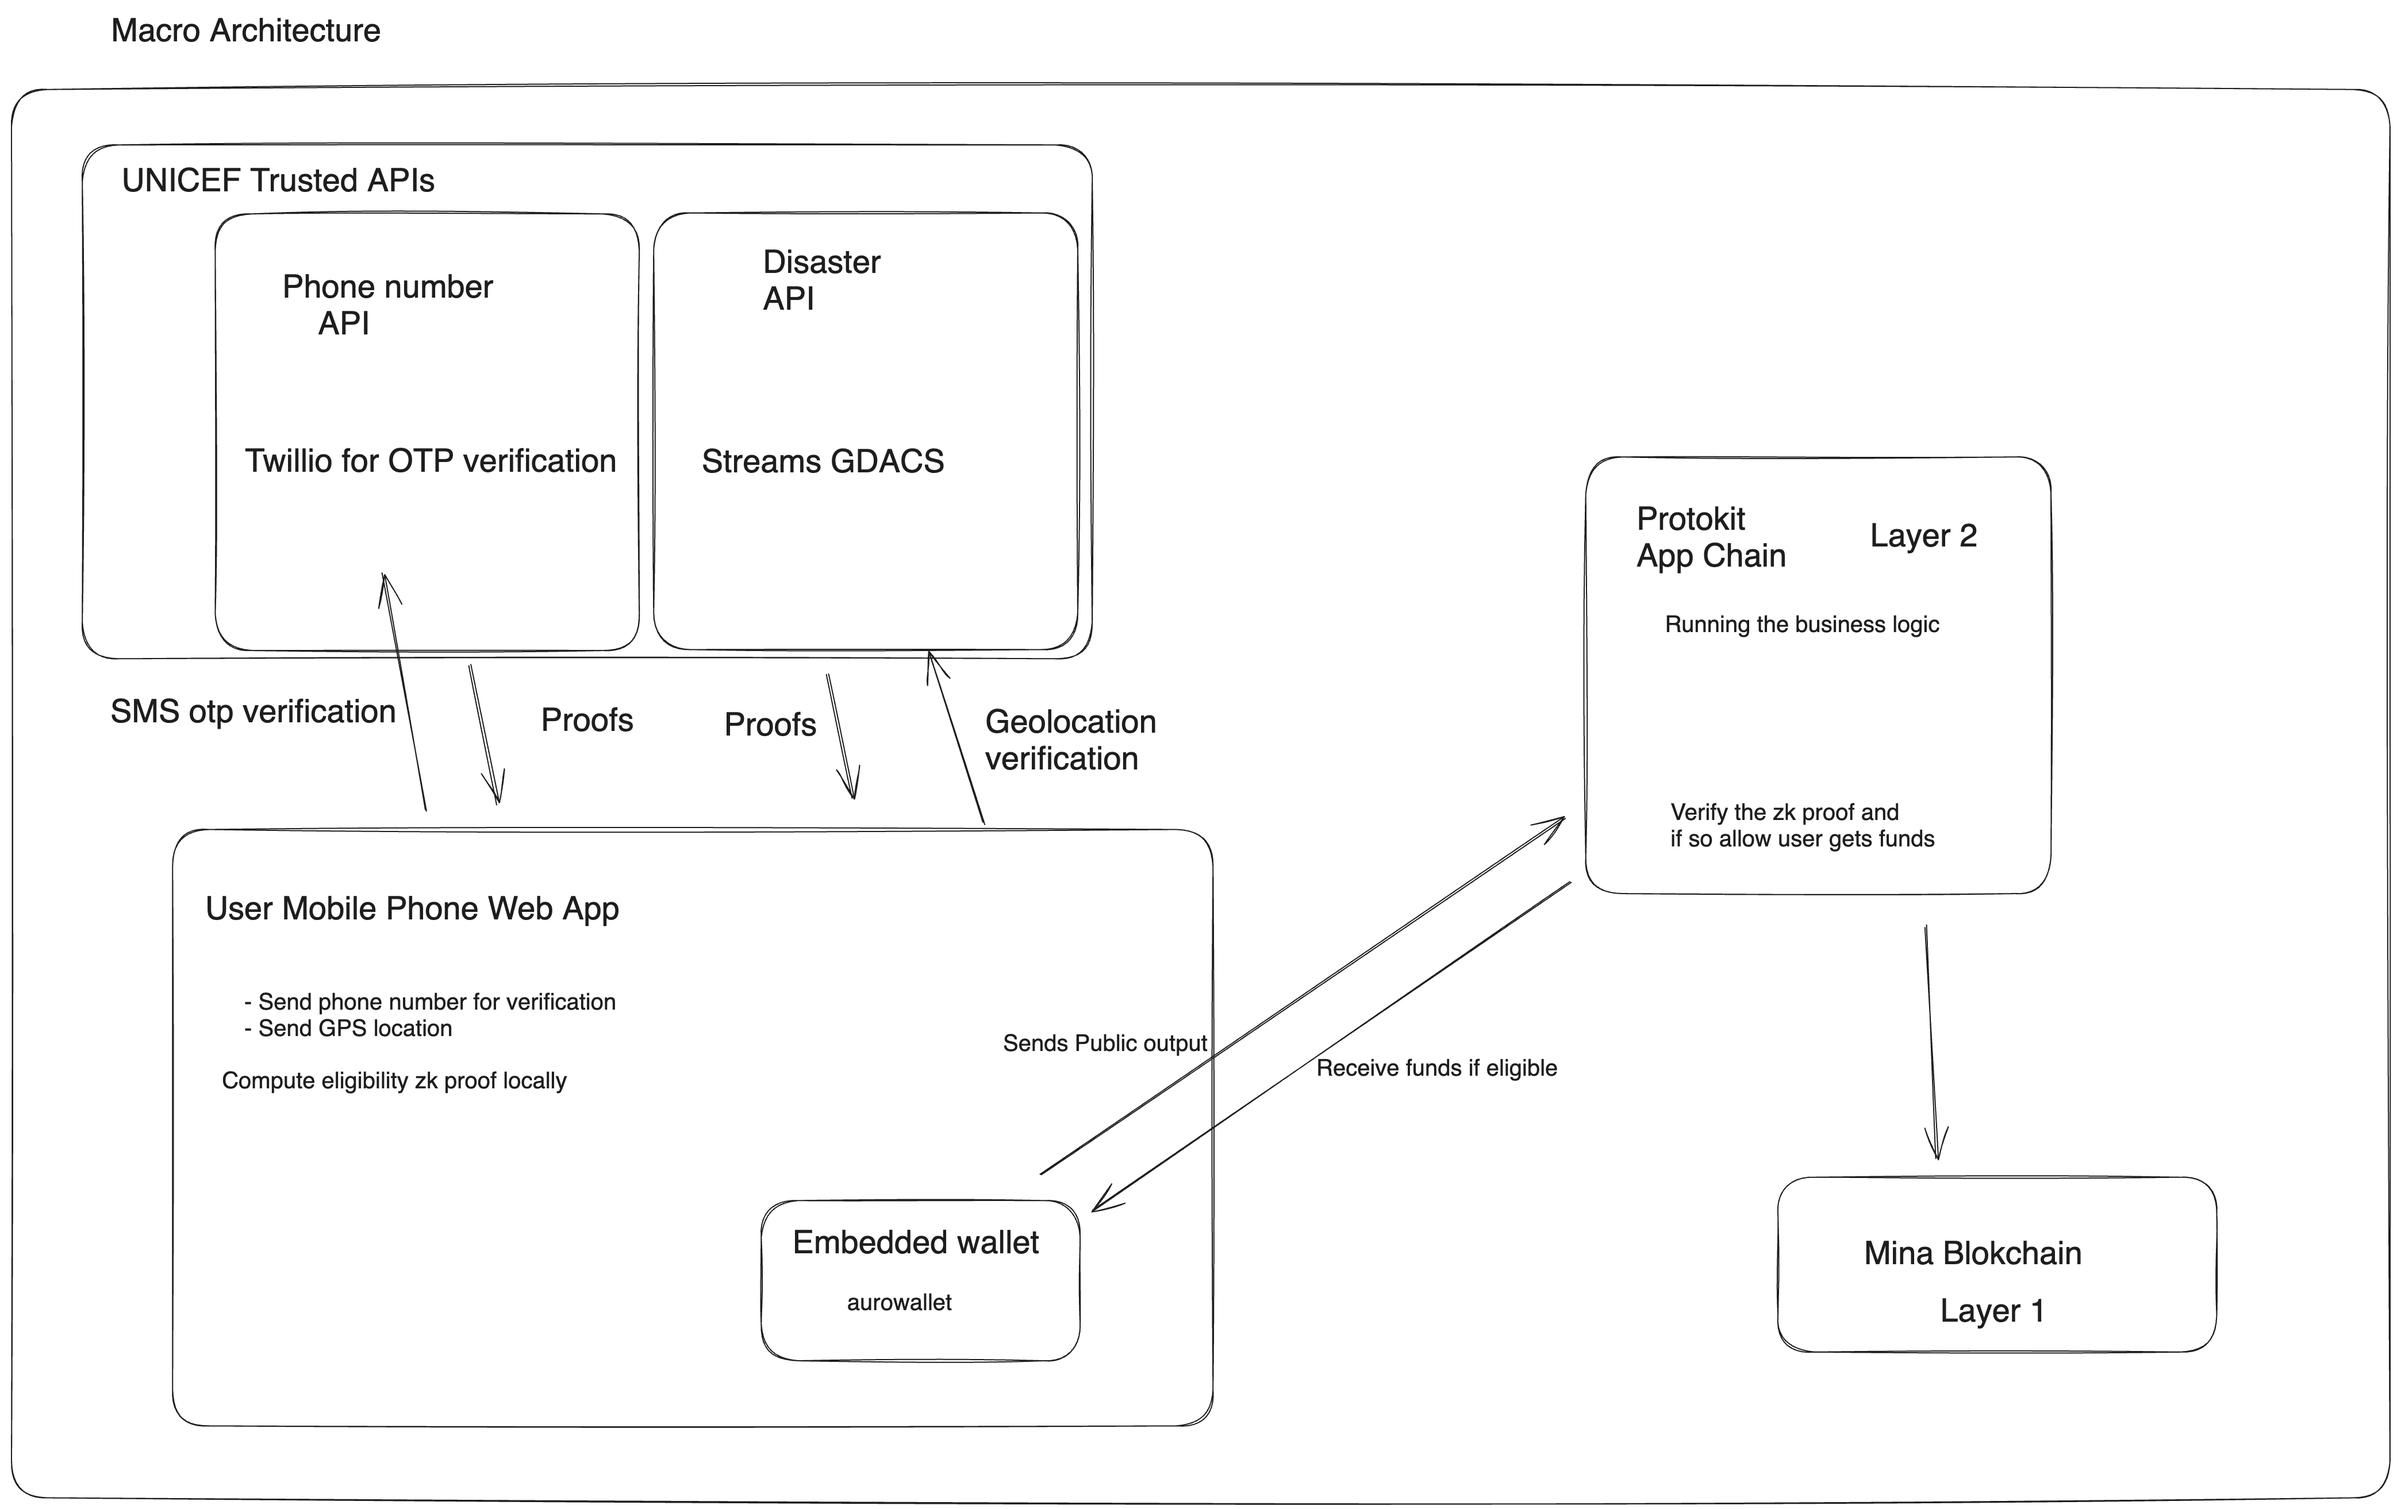
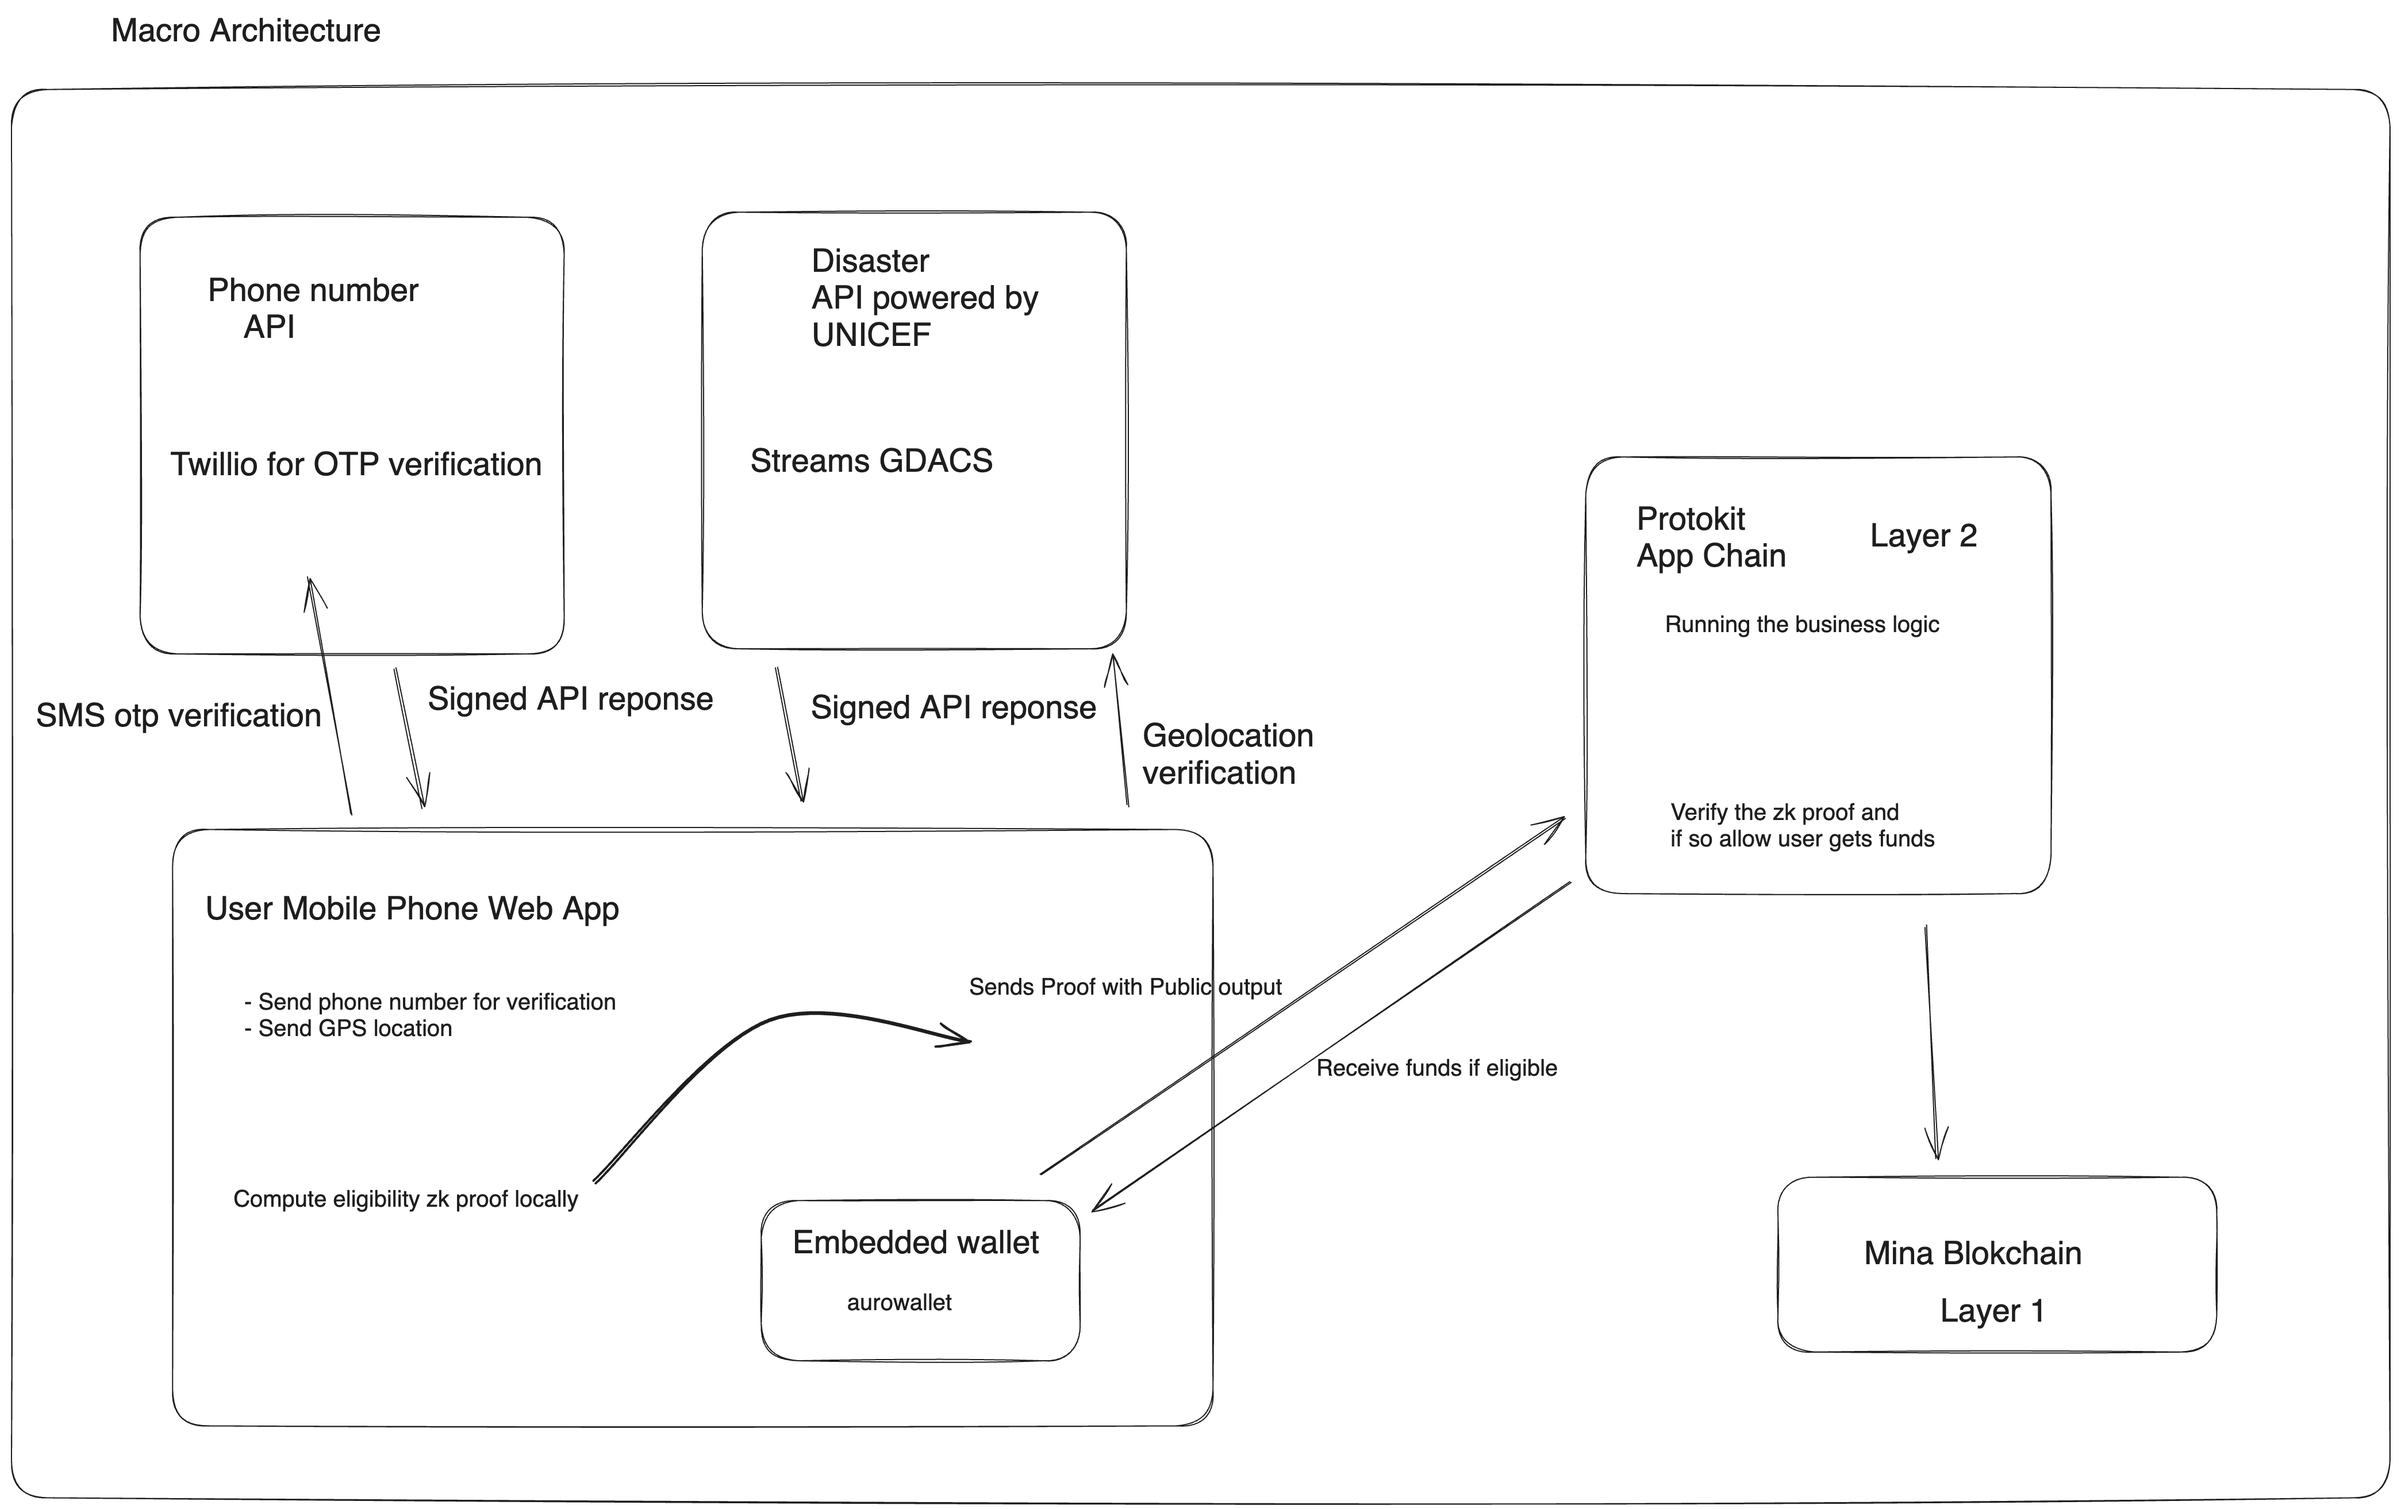
change and replace some infos

diff --git a/README.md b/README.md
@@ -115,9 +115,9 @@ graph TD
     F -->|Error| X[Handle Country Code Error]
     F --> E[Call getCountryCode]
     E --> H[Prepare Compensation Data]
-    H --> I[Generate a Proof]
-    I -->|Error| W[Handle Proof Error]
-    I --> J[Return Proof data]
+    H --> I[Call signFields]
+    I -->|Error| W[Handle Signed Error]
+    I --> J[Return Signed data]
     B -->|Error| Z[Handle Fetch Error]
 
 ```
@@ -135,9 +135,9 @@ graph TD
     G --> H[Check Code via Twilio]
     H -->|Code Valid| I[Prepare Fields for Signing]
     H -->|Code Invalid| J[Return Invalid Code Error]
-    I --> K[Generate a Proof]
-    K -->|Error| L[Handle Proof Error]
-    K --> M[Return Proof data]
+    I --> K[Call signFields]
+    K -->|Error| L[Handle Signed Error]
+    K --> M[Return Signed data]
     H -->|Error| N[Handle Verification Error]
 ```
 
